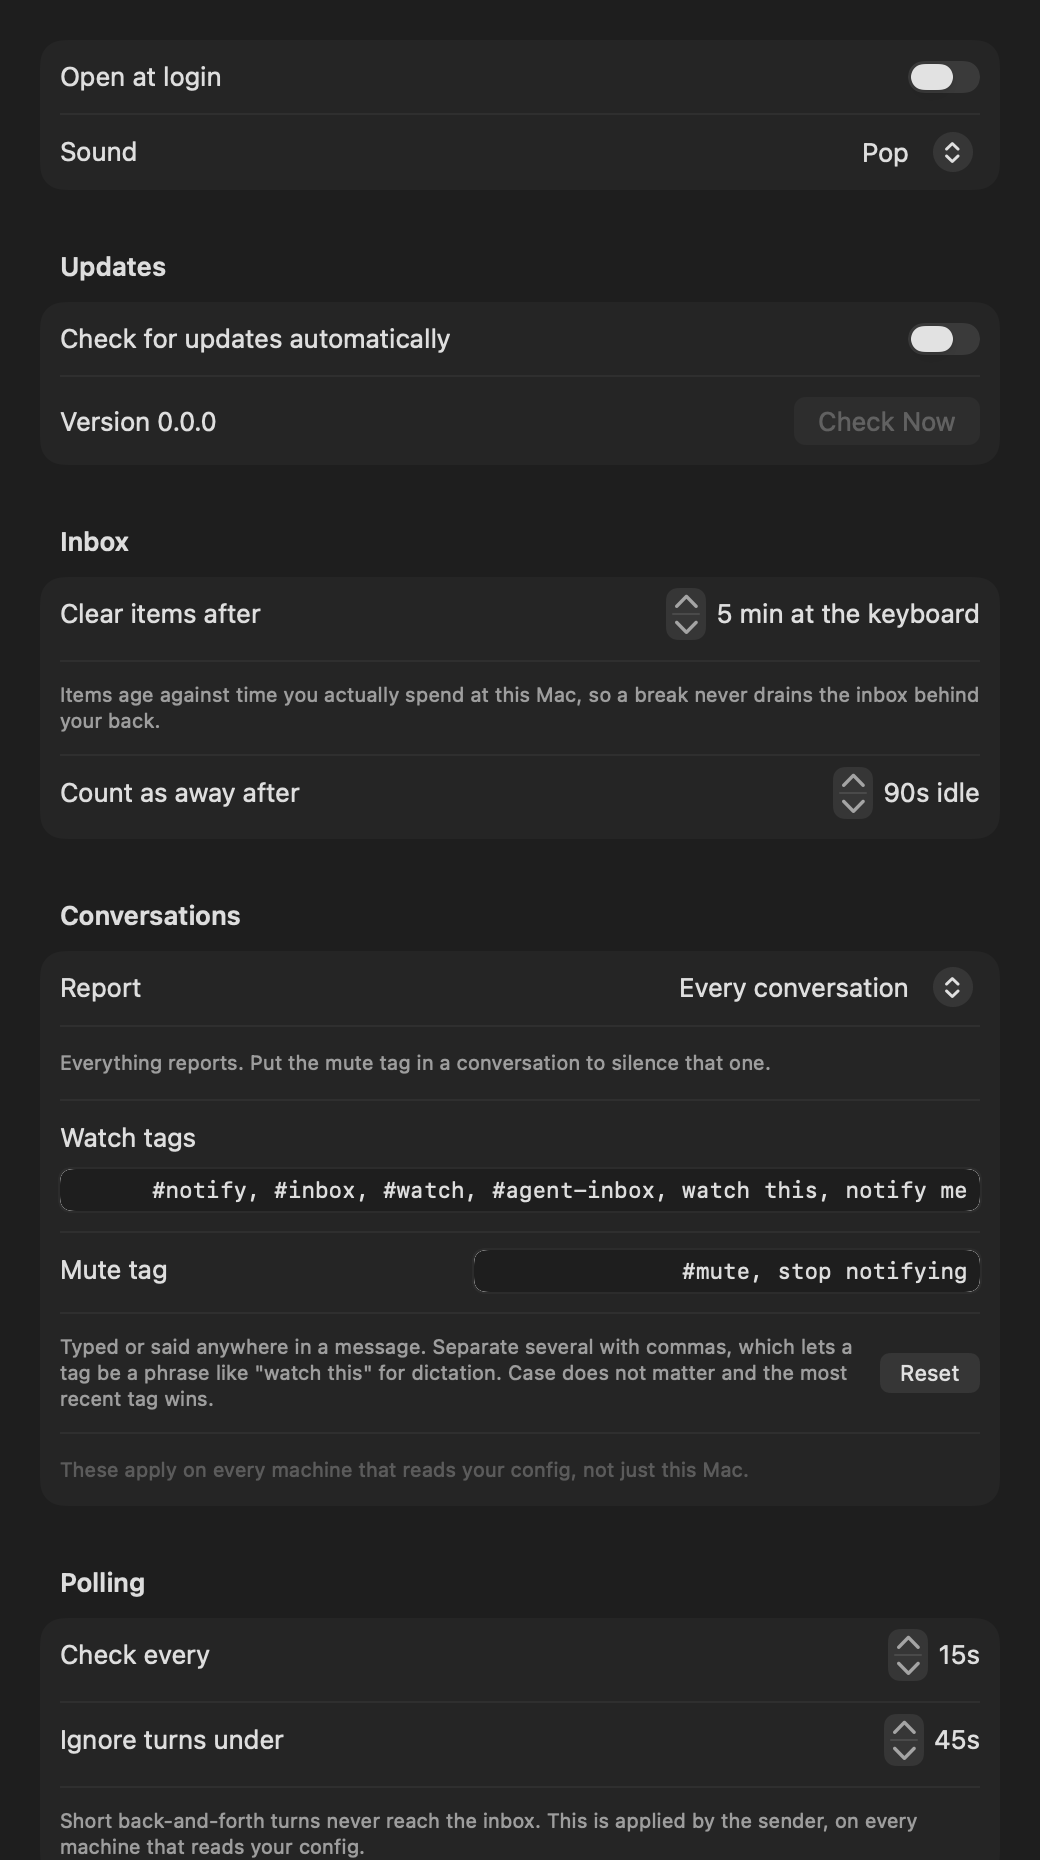
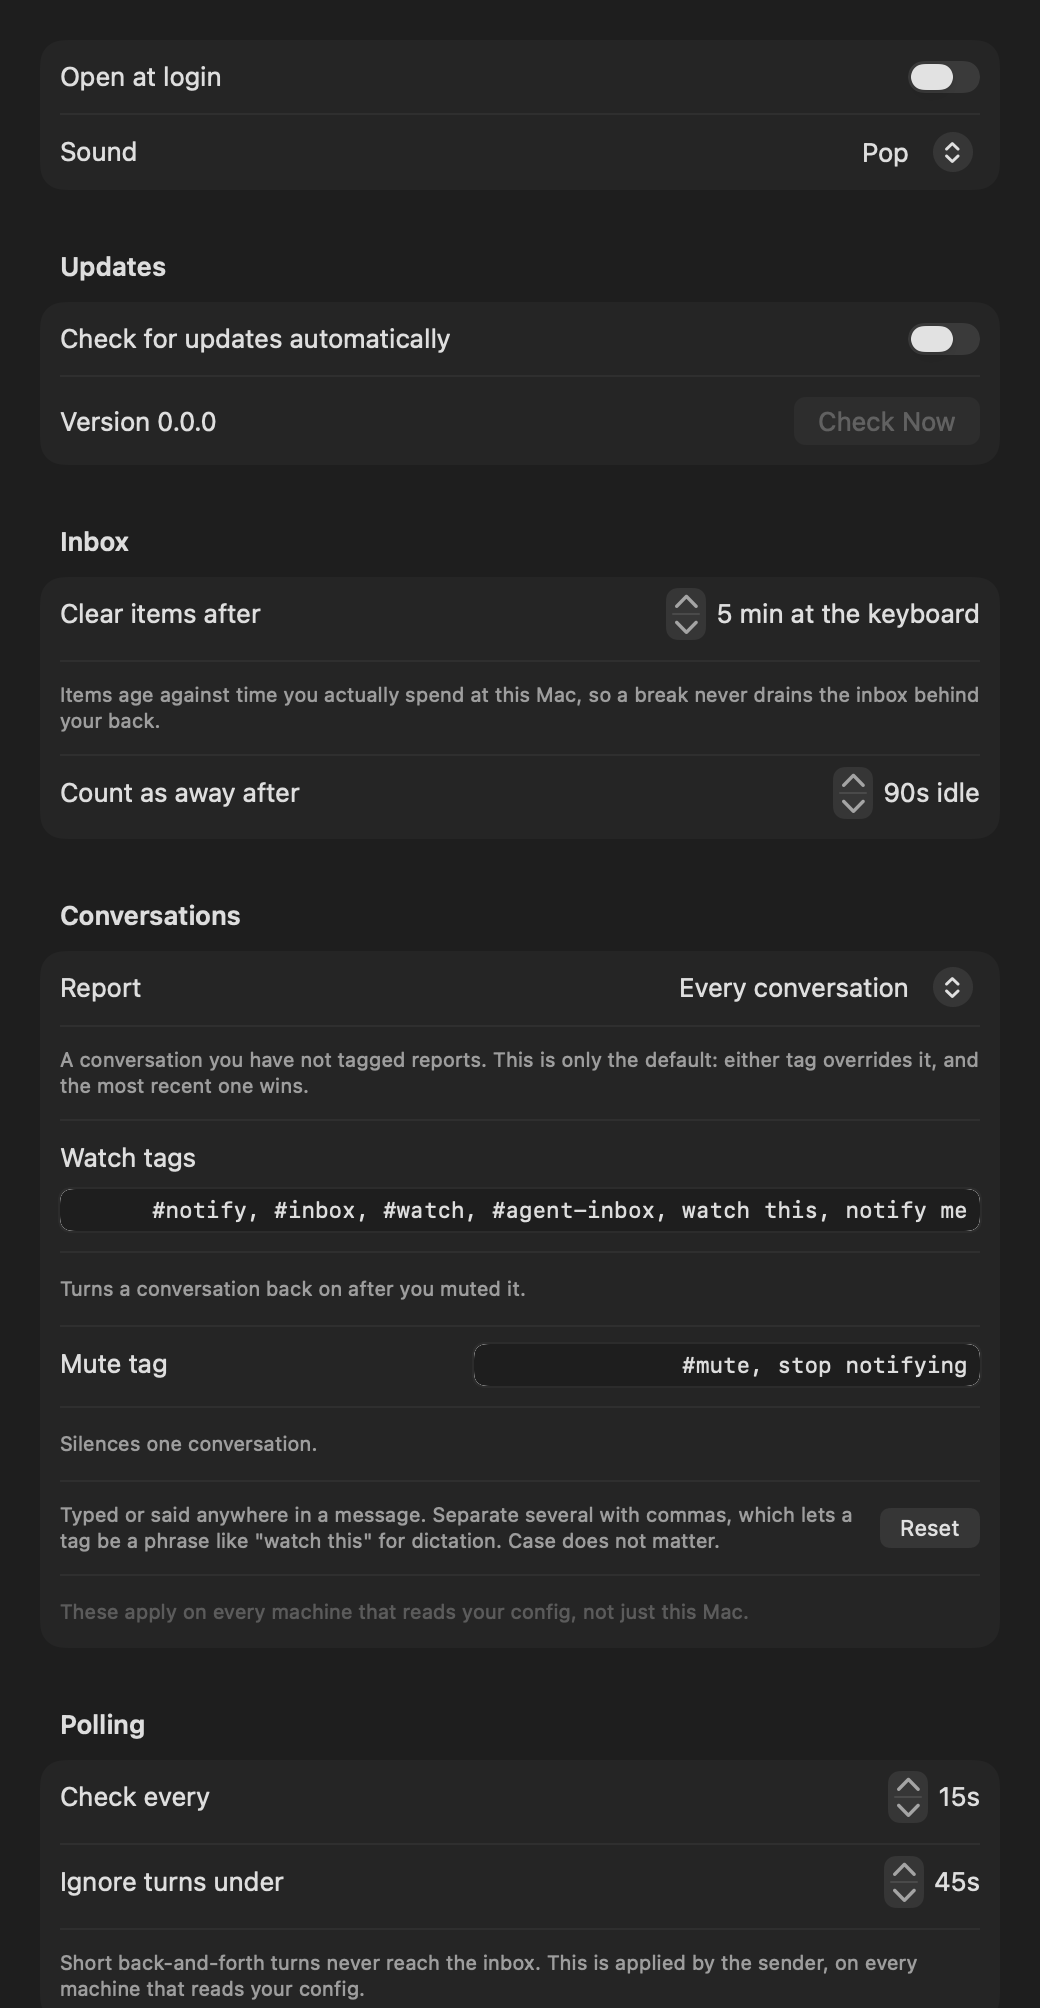
Say what each tag field does in the mode you are actually in
The Conversations pane put the report mode, the watch tags and the mute tag in
one undifferentiated list, which reads as though the watch tags only matter in
tagged mode and the mute tag only in every-conversation mode.

That is not what the sender does. notify.sh records a watch tag as "on" and a
mute tag as "off" against the session, and consults WATCH_MODE only when it has
seen neither. The mode is the default for an untagged conversation and nothing
more, so both fields stay live in both modes and disabling either one would
describe behaviour that does not exist.

Each field now carries a one-line caption that changes with the mode: in every-
conversation mode the watch tags are what turns a muted conversation back on, in
tagged mode they are the only thing that makes one report. The mode's own
caption says it is the default and that a tag overrides it. README matched.

diff --git a/mac/Sources/AgentInbox/Views/SettingsView.swift b/mac/Sources/AgentInbox/Views/SettingsView.swift
@@ -89,11 +89,10 @@ struct GeneralSettings: View {
                     Text("Every conversation").tag("all")
                     Text("Only tagged conversations").tag("tagged")
                 }
-                Text(settings.watchMode == "tagged"
-                     ? "Nothing reports until you put a watch tag in the conversation. For when a dozen are open and one matters."
-                     : "Everything reports. Put the mute tag in a conversation to silence that one.")
+                Text(AppSettings.reportModeCaption(watchMode: settings.watchMode))
                     .font(.system(size: 10))
                     .foregroundStyle(.secondary)
+                    .fixedSize(horizontal: false, vertical: true)
 
                 // A TextField's first argument is its label, not a
                 // placeholder. Inside LabeledContent that label is drawn a
@@ -109,6 +108,9 @@ struct GeneralSettings: View {
                         .font(.system(size: 11, design: .monospaced))
                         .onSubmit { settings.watchTags = AppSettings.normalizeTags(settings.watchTags) }
                 }
+                Text(AppSettings.watchTagCaption(watchMode: settings.watchMode))
+                    .font(.system(size: 10))
+                    .foregroundStyle(.secondary)
                 LabeledContent("Mute tag") {
                     TextField("", text: $settings.muteTag,
                               prompt: Text(AppSettings.defaultMuteTag))
@@ -117,8 +119,11 @@ struct GeneralSettings: View {
                         .font(.system(size: 11, design: .monospaced))
                         .onSubmit { settings.muteTag = AppSettings.normalizeTags(settings.muteTag) }
                 }
+                Text(AppSettings.muteTagCaption(watchMode: settings.watchMode))
+                    .font(.system(size: 10))
+                    .foregroundStyle(.secondary)
                 HStack {
-                    Text("Typed or said anywhere in a message. Separate several with commas, which lets a tag be a phrase like \"watch this\" for dictation. Case does not matter and the most recent tag wins.")
+                    Text("Typed or said anywhere in a message. Separate several with commas, which lets a tag be a phrase like \"watch this\" for dictation. Case does not matter.")
                         .font(.system(size: 10))
                         .foregroundStyle(.secondary)
                         .fixedSize(horizontal: false, vertical: true)

diff --git a/mac/Tests/AgentInboxTests/ReportModeCopyTests.swift b/mac/Tests/AgentInboxTests/ReportModeCopyTests.swift
@@ -1,0 +1,43 @@
+import XCTest
+@testable import AgentInbox
+
+/// The pane read as though the watch tags only existed in tagged mode and the
+/// mute tag only in every-conversation mode. The sender does not work that way:
+/// the mode is the default for a conversation with no tag, and both tags
+/// override it in both modes.
+final class ReportModeCopyTests: XCTestCase {
+    func testEveryModeSaysWhatAnUntaggedConversationDoes() {
+        XCTAssertTrue(AppSettings.reportModeCaption(watchMode: "all").contains("reports"))
+        XCTAssertTrue(AppSettings.reportModeCaption(watchMode: "tagged").contains("silent"))
+    }
+
+    func testBothModesSayTheTagsWinOverTheDefault() {
+        for mode in ["all", "tagged"] {
+            XCTAssertTrue(
+                AppSettings.reportModeCaption(watchMode: mode).contains("only the default"),
+                "\(mode) must not present the mode as the whole rule")
+        }
+    }
+
+    func testEachTagGetsADifferentJobInEachMode() {
+        XCTAssertNotEqual(
+            AppSettings.watchTagCaption(watchMode: "all"),
+            AppSettings.watchTagCaption(watchMode: "tagged"))
+        XCTAssertNotEqual(
+            AppSettings.muteTagCaption(watchMode: "all"),
+            AppSettings.muteTagCaption(watchMode: "tagged"))
+    }
+
+    func testNeitherTagIsEverDescribedAsDoingNothing() {
+        // Both stay live in both modes. A caption saying otherwise would send
+        // someone looking for a bug in notify.sh that is not there.
+        let captions = ["all", "tagged"].flatMap {
+            [AppSettings.watchTagCaption(watchMode: $0), AppSettings.muteTagCaption(watchMode: $0)]
+        }
+        for caption in captions {
+            XCTAssertFalse(caption.isEmpty)
+            XCTAssertFalse(caption.lowercased().contains("ignored"))
+            XCTAssertFalse(caption.lowercased().contains("no effect"))
+        }
+    }
+}

diff --git a/mac/Sources/AgentInbox/Models/AppSettings.swift b/mac/Sources/AgentInbox/Models/AppSettings.swift
@@ -164,6 +164,35 @@ final class AppSettings {
 
     nonisolated static let publicNtfyServer = "https://ntfy.sh"
 
+    /// What the report mode actually decides, which is narrower than either
+    /// label suggests.
+    ///
+    /// It is the default for a conversation nobody has tagged, and nothing
+    /// more: `notify.sh` records a watch tag as "on" and a mute tag as "off"
+    /// against the session, and only falls back to the mode when neither has
+    /// been seen. Both fields therefore stay live in both modes, so a pane that
+    /// greyed one out would be stating something the sender does not do. What
+    /// changes is which one you reach for, and that is what these say.
+    nonisolated static func reportModeCaption(watchMode: String) -> String {
+        watchMode == "tagged"
+            ? "A conversation you have not tagged stays silent. This is only the default: "
+                + "either tag overrides it, and the most recent one wins."
+            : "A conversation you have not tagged reports. This is only the default: either "
+                + "tag overrides it, and the most recent one wins."
+    }
+
+    nonisolated static func watchTagCaption(watchMode: String) -> String {
+        watchMode == "tagged"
+            ? "The only thing that makes a conversation report."
+            : "Turns a conversation back on after you muted it."
+    }
+
+    nonisolated static func muteTagCaption(watchMode: String) -> String {
+        watchMode == "tagged"
+            ? "Silences a conversation you had tagged to watch."
+            : "Silences one conversation."
+    }
+
     /// What actually protects the messages, which is not the same answer on
     /// every server and is the thing this pane used to get wrong.
     ///

diff --git a/README.md b/README.md
@@ -185,11 +185,15 @@ it. Without a comma they are separated by whitespace, so `#a #b` still means two
 tags. Emptying the watch tags restores the defaults rather than leaving a silence
 nothing could escape.
 
-**Settings → Conversations → Report** switches the default:
+**Settings → Conversations → Report** switches the default for a conversation you
+have not tagged. That is all it does: both tags stay live in either mode, and a
+tag always beats the default.
 
-- **Every conversation.** Everything reports, and `#mute` silences the noisy one.
-- **Only tagged conversations.** Silence until you tag one. This is the setting
-  for "I have twenty open and want one of them."
+- **Every conversation.** An untagged conversation reports. `#mute` silences one,
+  and a watch tag turns that one back on.
+- **Only tagged conversations.** An untagged conversation stays silent. A watch tag
+  is the only thing that makes one report, and `#mute` silences one you had tagged.
+  This is the setting for "I have twenty open and want one of them."
 
 The mode is per machine, so a dev box can stay quiet while your laptop reports
 everything.
